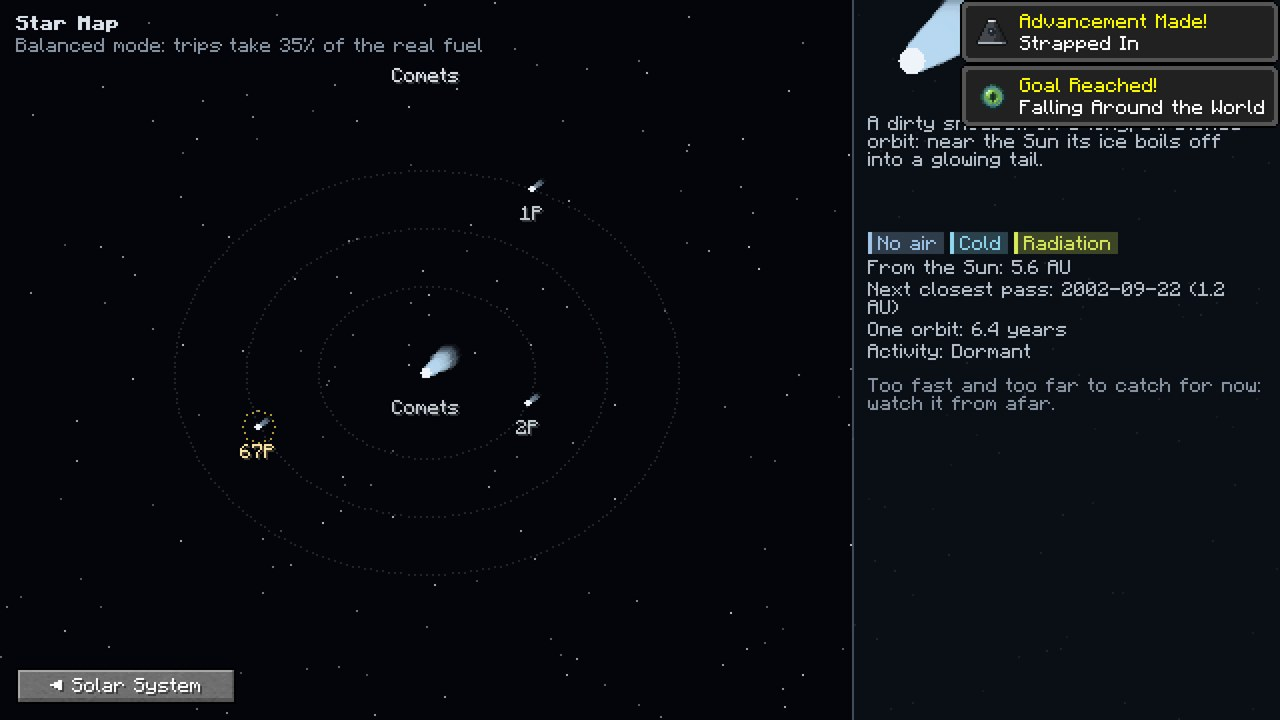
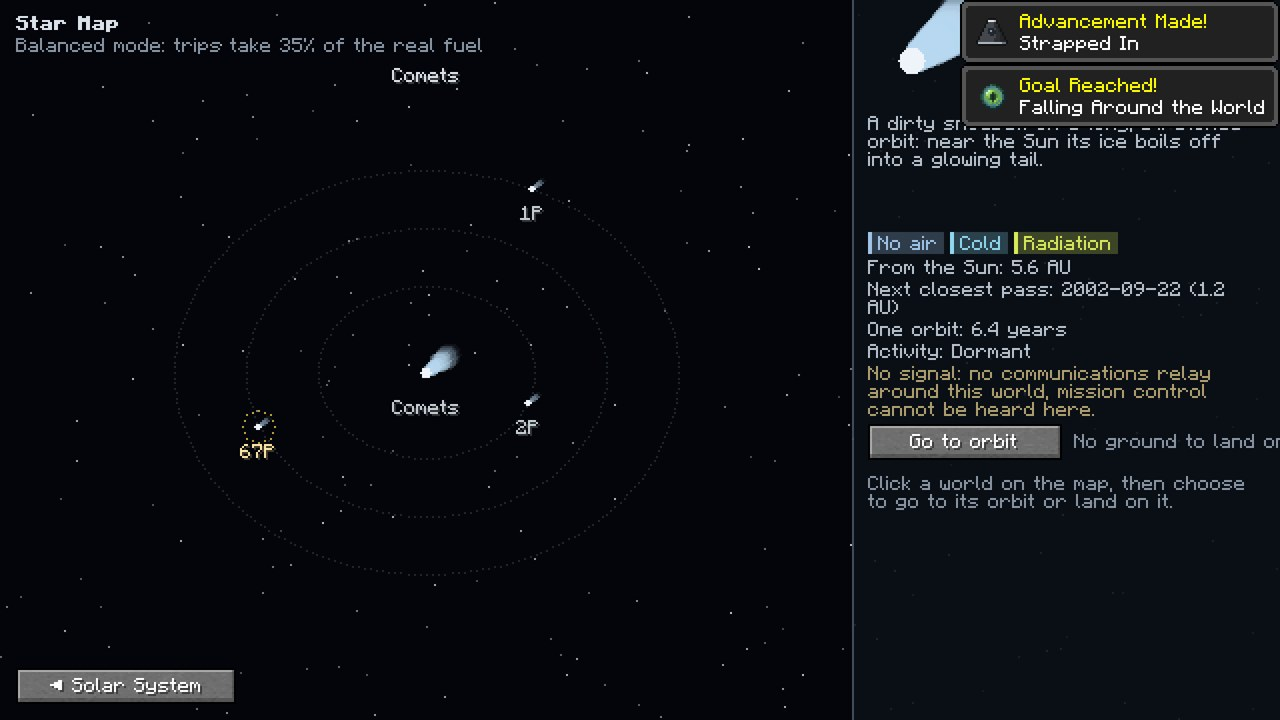
Rocketry: comets stay destinations; the map groups them and adds their card
Comets keep their orbit places (a rocket can park beside one, as Rosetta did at
67P, and a surface comes with their worlds). The star map still gathers them in
one 'Comets' node and shows the comet card above the usual orbit button.

Changed region(s): [[0.6562, 0.5194, 1.0, 0.7028]]

diff --git a/src/main/java/com/pizzaparker07/spacebreaker/client/rocketry/StarMapScreen.java b/src/main/java/com/pizzaparker07/spacebreaker/client/rocketry/StarMapScreen.java
@@ -125,11 +125,7 @@ public class StarMapScreen extends Screen {
             goButton.visible = star != null;
             goButton.active = false;
         } else {
-            // comets are on the map to look at, not to fly to (yet)
-            orbitButton.visible = !StarMapData.comet(body);
-            if (StarMapData.comet(body)) {
-                surfaceButton.visible = false;
-            }
+            orbitButton.visible = true;
         }
     }
 
@@ -539,8 +535,7 @@ public class StarMapScreen extends Screen {
         }
         y += 14;
         if (StarMapData.comet(body)) {
-            drawComet(g, x, y, w);
-            return;
+            y = drawComet(g, x, y, w);
         }
         if (!com.pizzaparker07.spacebreaker.content.rocketry.mission.Coverage.hasSignal(body)) {
             for (FormattedCharSequence line : font.split(Component.translatable("gui.spacebreaker.star_map.no_signal"), w)) {
@@ -589,10 +584,10 @@ public class StarMapScreen extends Screen {
     }
 
     /** A comet's card: where it is, when it next swings past the Sun, how active it is. */
-    private void drawComet(GuiGraphics g, int x, int y, int w) {
+    private int drawComet(GuiGraphics g, int x, int y, int w) {
         var info = StarMapData.cometInfo(body, com.pizzaparker07.spacebreaker.core.astro.BodyAdapter.simTime(minecraft.level)).orElse(null);
         if (info == null) {
-            return;
+            return y;
         }
         boolean tr = minecraft.getLanguageManager().getSelected().startsWith("tr");
         String level = tr ? info.level().nameTr : info.level().nameEn;
@@ -600,8 +595,7 @@ public class StarMapScreen extends Screen {
         y = fact(g, x, y, w, Component.translatable("gui.spacebreaker.star_map.comet.perihelion",
                 info.nextPerihelion().format(java.time.format.DateTimeFormatter.ISO_LOCAL_DATE), decimal(info.perihelionAu())));
         y = fact(g, x, y, w, Component.translatable("gui.spacebreaker.star_map.comet.period", decimal(info.periodYears())));
-        y = fact(g, x, y, w, Component.translatable("gui.spacebreaker.star_map.comet.activity", level));
-        g.drawWordWrap(font, Component.translatable("gui.spacebreaker.star_map.comet.no_trip"), x, y + 6, w, DIM);
+        return fact(g, x, y, w, Component.translatable("gui.spacebreaker.star_map.comet.activity", level));
     }
 
     private void drawTrip(GuiGraphics g, int x, int y, int w) {

diff --git a/src/testmod/java/com/pizzaparker07/spacebreaker/testmod/rocketry/RocketryGameTests.java b/src/testmod/java/com/pizzaparker07/spacebreaker/testmod/rocketry/RocketryGameTests.java
@@ -1101,9 +1101,9 @@ public final class RocketryGameTests {
             var id = Spacebreaker.id(n);
             helper.assertTrue(comets.contains(id) && !planets.contains(id), n + " is in the comet group");
             helper.assertTrue(StarMapData.system(id).equals(StarMapData.COMETS), n + " belongs to the group");
-            helper.assertTrue(com.pizzaparker07.spacebreaker.content.rocketry.nav.Locations.get(id, true).isEmpty()
-                    && com.pizzaparker07.spacebreaker.content.rocketry.nav.Locations.get(id, false).isEmpty(), n + ": nowhere to fly (no orbit, no surface)");
-            helper.assertTrue(com.pizzaparker07.spacebreaker.content.rocketry.nav.Locations.all().stream().noneMatch(l -> l.body().equals(id)), n + ": not a destination");
+            // still a destination: a rocket can park in a comet's orbit, as Rosetta did at 67P
+            var orbit = com.pizzaparker07.spacebreaker.content.rocketry.nav.Locations.get(id, true);
+            helper.assertTrue(orbit.isPresent() && Transfers.real(Location.EARTH_ORBIT, orbit.get()).isPresent(), n + ": its orbit can be reached");
         }
         // the card at J2000
         var halley = StarMapData.cometInfo(Spacebreaker.id("halley"), 0).orElseThrow();

diff --git a/src/main/java/com/pizzaparker07/spacebreaker/content/rocketry/nav/StarMapData.java b/src/main/java/com/pizzaparker07/spacebreaker/content/rocketry/nav/StarMapData.java
@@ -184,7 +184,7 @@ public final class StarMapData {
 
     /** The map's group of near-Earth asteroids (not a real body): one node on the solar system view. */
     public static final ResourceLocation NEAR_EARTH_ASTEROIDS = ResourceLocation.fromNamespaceAndPath("spacebreaker", "near_earth_asteroids");
-    /** The map's group of comets: information only (comets are not places to fly to yet). */
+    /** The map's group of comets (one node on the solar system view; the comets themselves are destinations). */
     public static final ResourceLocation COMETS = ResourceLocation.fromNamespaceAndPath("spacebreaker", "comets");
 
     public static boolean comet(ResourceLocation body) {
@@ -233,7 +233,7 @@ public final class StarMapData {
         List<ResourceLocation> out = new ArrayList<>();
         for (Location l : Locations.all()) {
             ResourceLocation b = nearEarthAsteroid(l.body()) ? NEAR_EARTH_ASTEROIDS : l.body();
-            if (Locations.parentPlanet(l.body()).isEmpty() && !out.contains(b)) {
+            if (Locations.parentPlanet(l.body()).isEmpty() && !comet(l.body()) && !out.contains(b)) {
                 out.add(b);
             }
         }

diff --git a/src/main/java/com/pizzaparker07/spacebreaker/content/rocketry/nav/Locations.java b/src/main/java/com/pizzaparker07/spacebreaker/content/rocketry/nav/Locations.java
@@ -56,9 +56,7 @@ public final class Locations {
                     }
                     b.put(id, body);
                     if (body.type() == BodyType.COMET) {
-                        // known for the map's information card, but nowhere to fly: no orbit, no surface
-                        cometIds.add(id);
-                        return;
+                        cometIds.add(id); // grouped on the map; still places to fly to (orbit, and a surface once built)
                     }
                     Location surface = Location.of(id, body, false);
                     if (surface != null) {
@@ -87,7 +85,7 @@ public final class Locations {
 
     private static volatile List<ResourceLocation> comets = List.of();
 
-    /** Comets of the body data, in order from the Sun: shown on the star map, not places to fly to. */
+    /** Comets of the body data, in order from the Sun (the map groups them). */
     public static List<ResourceLocation> comets() {
         return comets;
     }

diff --git a/src/main/java/com/pizzaparker07/spacebreaker/content/rocketry/RocketryLang.java b/src/main/java/com/pizzaparker07/spacebreaker/content/rocketry/RocketryLang.java
@@ -283,7 +283,6 @@ final class RocketryLang {
         l.add("gui.spacebreaker.star_map.comet.perihelion", "Next closest pass: %s (%s AU)", "Güneş'e en yakın geçiş: %s (%s AU)");
         l.add("gui.spacebreaker.star_map.comet.period", "One orbit: %s years", "Bir tur: %s yıl");
         l.add("gui.spacebreaker.star_map.comet.activity", "Activity: %s", "Etkinlik: %s");
-        l.add("gui.spacebreaker.star_map.comet.no_trip", "Too fast and too far to catch for now: watch it from afar.", "Şimdilik yakalanamayacak kadar hızlı ve uzak: uzaktan izle.");
         l.add("gui.spacebreaker.star_map.back", "◀ Solar System", "◀ Güneş Sistemi");
         l.add("gui.spacebreaker.star_map.to_orbit", "Go to orbit", "Yörüngeye git");
         l.add("gui.spacebreaker.star_map.land", "Land", "Yüzeye in");

diff --git a/docs/CONTENT.md b/docs/CONTENT.md
@@ -49,7 +49,7 @@ Her içerik paketi gerçek istemcide vitrin dünyasında fotoğraflanır; onayda
 | 🎨 | Fırlatma tesisi: rampa kaplaması, alev kanalı ızgarası, servis kulesi, erişim kolu (geri sayımda katlanır), yakıt hattı (c:rp1 / c:liquid_oxygen), kontrol konsolu | çok bloklu; boş elle tıklayınca kontrol listesi + eksik bloklar alevle işaretlenir |
 | ⬜ | Uyarı ışığı | |
 | 🎨 | Roket parçaları: burun konisi, kapsül, ısı kalkanı, paraşüt, küçük/orta/büyük tank, deniz seviyesi + vakum kerosen motoru, deniz seviyesi + vakum metaloks motoru (Metan Motorları teknolojisi; Mars'ta üretilen metan + LOX ile dönüş), deniz seviyesi + vakum hidroloks motoru (Hidrojen Motorları; en yüksek Isp, Merkür yörüngesine gidip dönüş), kademe ayırıcı, ara kademe, kanatçık, ızgara kanatçık, iniş bacakları, manevra iticileri | veriyle tanımlı (`rocket_part/*.json`), gerçekçi kütle/itki/Isp; tanklar kademenin motorunun yakıtını (RP-1, sıvı metan ya da sıvı hidrojen) alır; envanterde 2B, elde ve rokette 3B |
-| 🎨 | Roket, yörünge boyutları (Dünya / Ay yörüngesi + diğer cisimler için ortak yörünge), yıldız haritası (gök cismi verisinden: Merkür, Venüs, Mars, Phobos, Deimos ve dış sistem kendiliğinden; Güneş solda, gezegene tıklayınca sistemine yakınlaşır, sağ panelde resim, kısa açıklama, tehlikeler, "Yörüngeye git / Yüzeye in", düz dille yakıt kontrolü, dönüş yakıtı, yolculuk süresi, fırlatma penceresi, adım adım rota; sağ tık ile "Yakın yıldızlar": Güneş'e 25 ışık yılı içindeki yıldızlar, Samanyolu'nda konum, yıldız bilgisi — yıldızlar arası yolculuk henüz yok; Dünya'ya yakın asteroitler (Bennu, Ryugu, Itokawa, Eros) tek "Asteroitler" düğümünde toplanır; kuyruklu yıldızlar (1P/Halley, 2P/Encke, 67P) yalnız bilgi kartıyla: Güneş'e uzaklık, sonraki yakın geçiş, bir tur süresi, etkinlik; gidilecek yer değil) | binince roket kamerası (fareyle çevresinde dön, tekerlekle yakınlaş, F5 ile kokpit penceresi), boyut değişiminde yükleme ekranı yerine geçiş animasyonu (gök kararır → yıldızlar, yıldızlar akar → hedef büyür, gezegen yaklaşır → plazma), geri sayım, ateşleme, kademe ayrılması, gökyüzünün kararması, yörüngede dönen gezegen, Ay'a motorlu iniş + toz, atmosfere giriş (plazma), paraşüt, suya iniş |
+| 🎨 | Roket, yörünge boyutları (Dünya / Ay yörüngesi + diğer cisimler için ortak yörünge), yıldız haritası (gök cismi verisinden: Merkür, Venüs, Mars, Phobos, Deimos ve dış sistem kendiliğinden; Güneş solda, gezegene tıklayınca sistemine yakınlaşır, sağ panelde resim, kısa açıklama, tehlikeler, "Yörüngeye git / Yüzeye in", düz dille yakıt kontrolü, dönüş yakıtı, yolculuk süresi, fırlatma penceresi, adım adım rota; sağ tık ile "Yakın yıldızlar": Güneş'e 25 ışık yılı içindeki yıldızlar, Samanyolu'nda konum, yıldız bilgisi — yıldızlar arası yolculuk henüz yok; Dünya'ya yakın asteroitler (Bennu, Ryugu, Itokawa, Eros) tek "Asteroitler" düğümünde toplanır; kuyruklu yıldızlar (1P/Halley, 2P/Encke, 67P) tek "Kuyruklu yıldızlar" düğümünde; bilgi kartı: Güneş'e uzaklık, sonraki yakın geçiş, bir tur süresi, etkinlik; yörüngelerine gidilebilir) | binince roket kamerası (fareyle çevresinde dön, tekerlekle yakınlaş, F5 ile kokpit penceresi), boyut değişiminde yükleme ekranı yerine geçiş animasyonu (gök kararır → yıldızlar, yıldızlar akar → hedef büyür, gezegen yaklaşır → plazma), geri sayım, ateşleme, kademe ayrılması, gökyüzünün kararması, yörüngede dönen gezegen, Ay'a motorlu iniş + toz, atmosfere giriş (plazma), paraşüt, suya iniş |
 | 🎨 | Acil Dönüş İşareti, Yaratıcı Yakıt Kartuşu | mahsur kalmama; test için tam yakıt |
 | 🎨 | İstasyon Gövdesi, İstasyon Penceresi, Yanaşma Portu, İstasyon Kurulum Kiti | yörüngede boşlukta kit 5×5 gövde zemini açar; gövde/pencere/port tam blok → oksijen dağıtıcısıyla basınçlı oda; porta 12 blok yakın yörüngedeki roket "yanaşmış" sayılır: mürettebat inip binebilir, porta borulanan sıvılar roketin tanklarına gider |
 | 🎨 | Yaşam Modülü Kiti, İstasyon Ranzası, Yakıt Deposu | kit boşlukta kapalı 7×5×7 oda açar: pencere bandı, hava kilidi kapısı, uzak duvarda yanaşma portu, içeride oksijen dağıtıcısı + ranza, çatıda güneş paneli dizisi ve altında gece için batarya bankası, tavanda bakır kablo ucu (endüstri); dağıtıcıya oksijen tüpü takınca oda hava dolar. Ranza her dünyada yeniden doğma noktası ayarlar (yatak gerekmez). Yakıt deposu 4 tank (RP-1, LOX, metan, hidrojen; 32.000 mB), borudan/kovayla dolar; FE ile çalışır (40 FE/t, 20.000 FE tampon) ve 8 blok içindeki yanaşma portlarındaki roketlere yakıt pompalar. Yörüngeye varan roket o yörüngedeki en yakın yanaşma portuna kendiliğinden yaklaşır: uzakta hızlı, son metrelerde yavaş, manevra iticisi pufları; kenetlenmede kilit sesi ve kabin sarsıntısı. Yıldız haritasında istasyonu olan gezegenin yanında istasyon simgesi; panelde kuran oyuncu ve yanaşma portu sayısı (yakın portlar tek istasyon sayılır). Yörüngede gündüz/gece: istasyon 10 dakikada bir tur atar, turun yaklaşık üçte birinde gezegenin gölgesinde kalır (astro Eclipses; yarı gölgede yumuşak geçiş); güneş gezegenin arkasına kayarak söner, ışık kararır, gece yüzü karanlık. Sunucu ve istemci aynı oyun saatinden hesaplar (`OrbitDaylight.sunlit(level, pos)` güneş panelleri için) |
